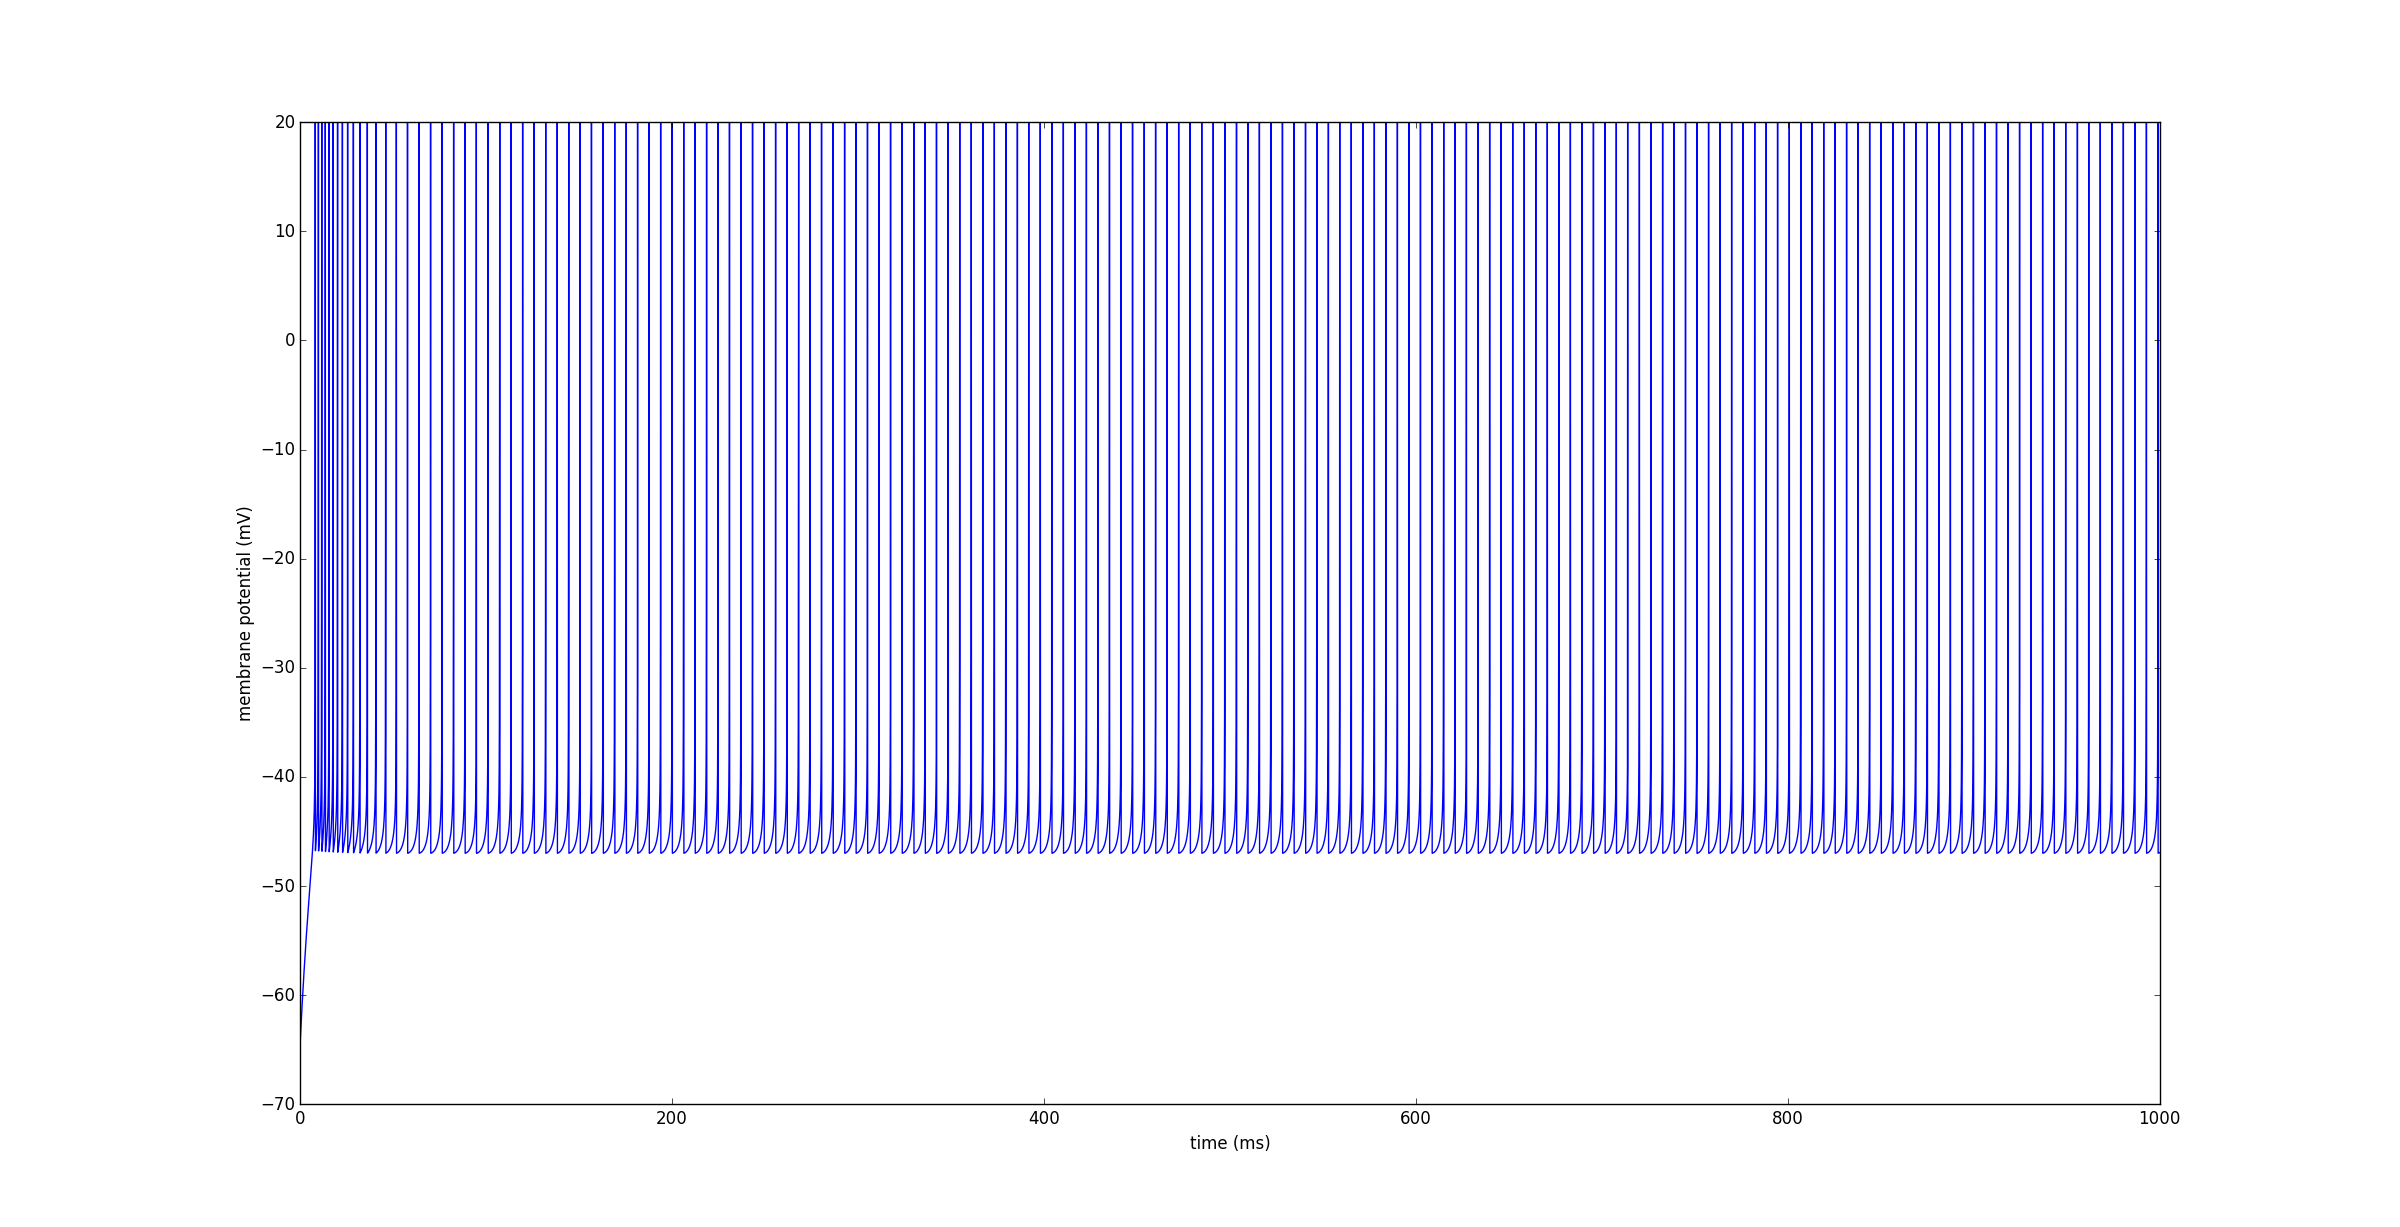
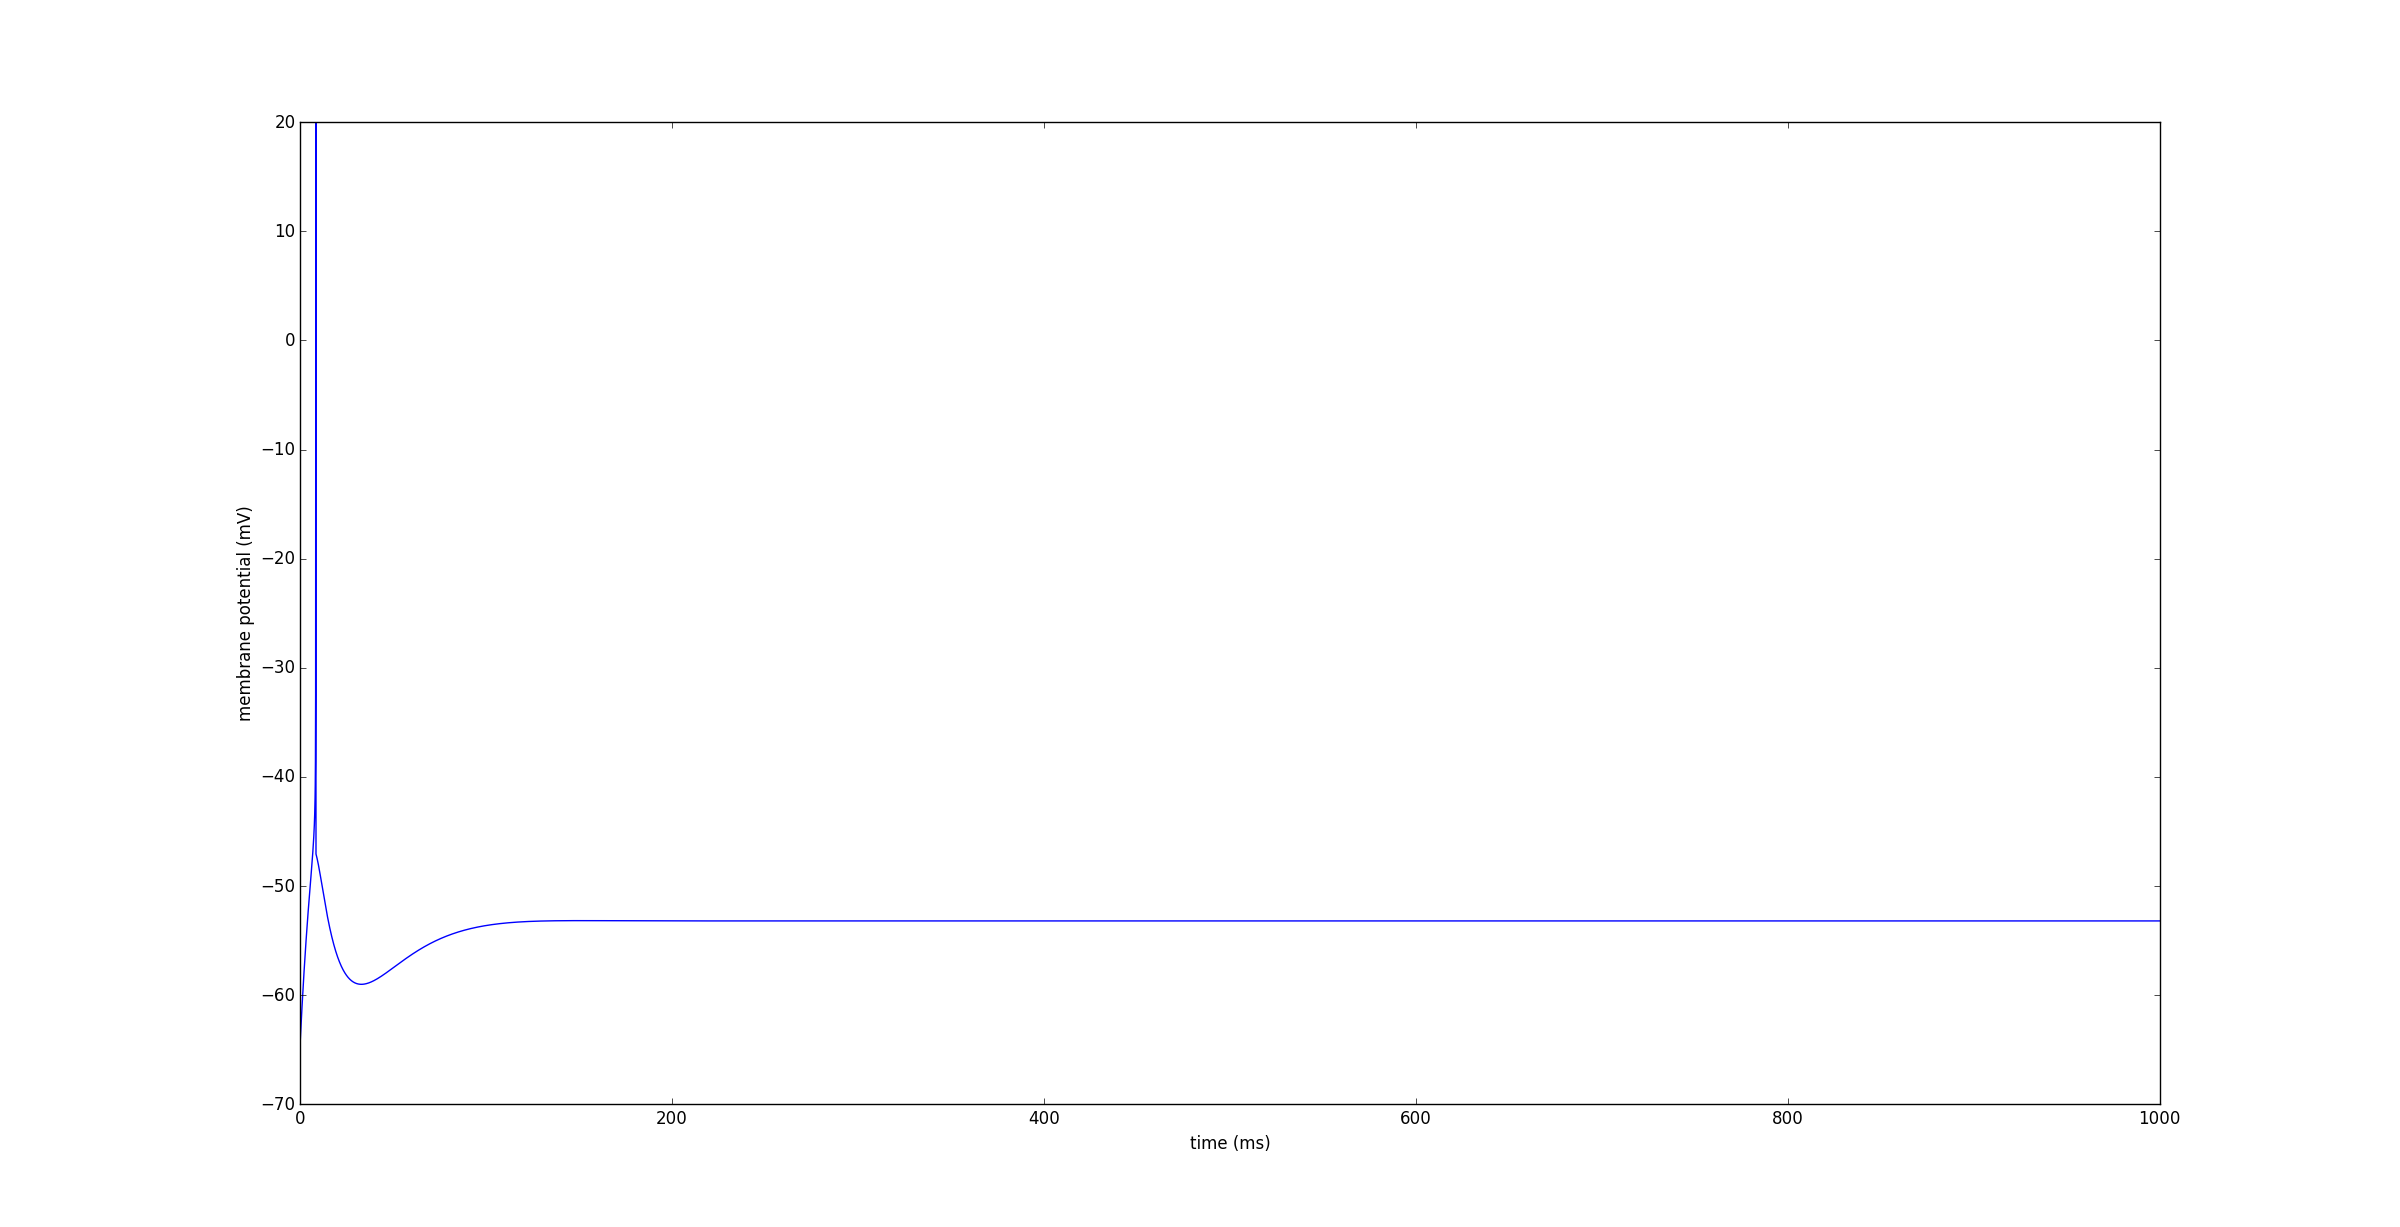
4g is correct now._S

Changed region(s): [[0.125, 0.0929, 0.9062, 0.7123]]

diff --git a/adex.py b/adex.py
@@ -31,7 +31,7 @@ DeltaT = 2 * mV
 Vcut = 0 * mV
 
 # Pick an electrophysiological behaviour
-tauw, a, b, Vr = 90*ms, -10*nS, 0.03*nA, -47*mV # 4g
+tauw, a, b, Vr = 90*ms, 20*nS, 0.30*nA, -47*mV # 4g
 
 eqs = """
 dvm/dt = (gL*(EL - vm) + gL*DeltaT*exp((vm - VT)/DeltaT) + I - w)/C : volt
